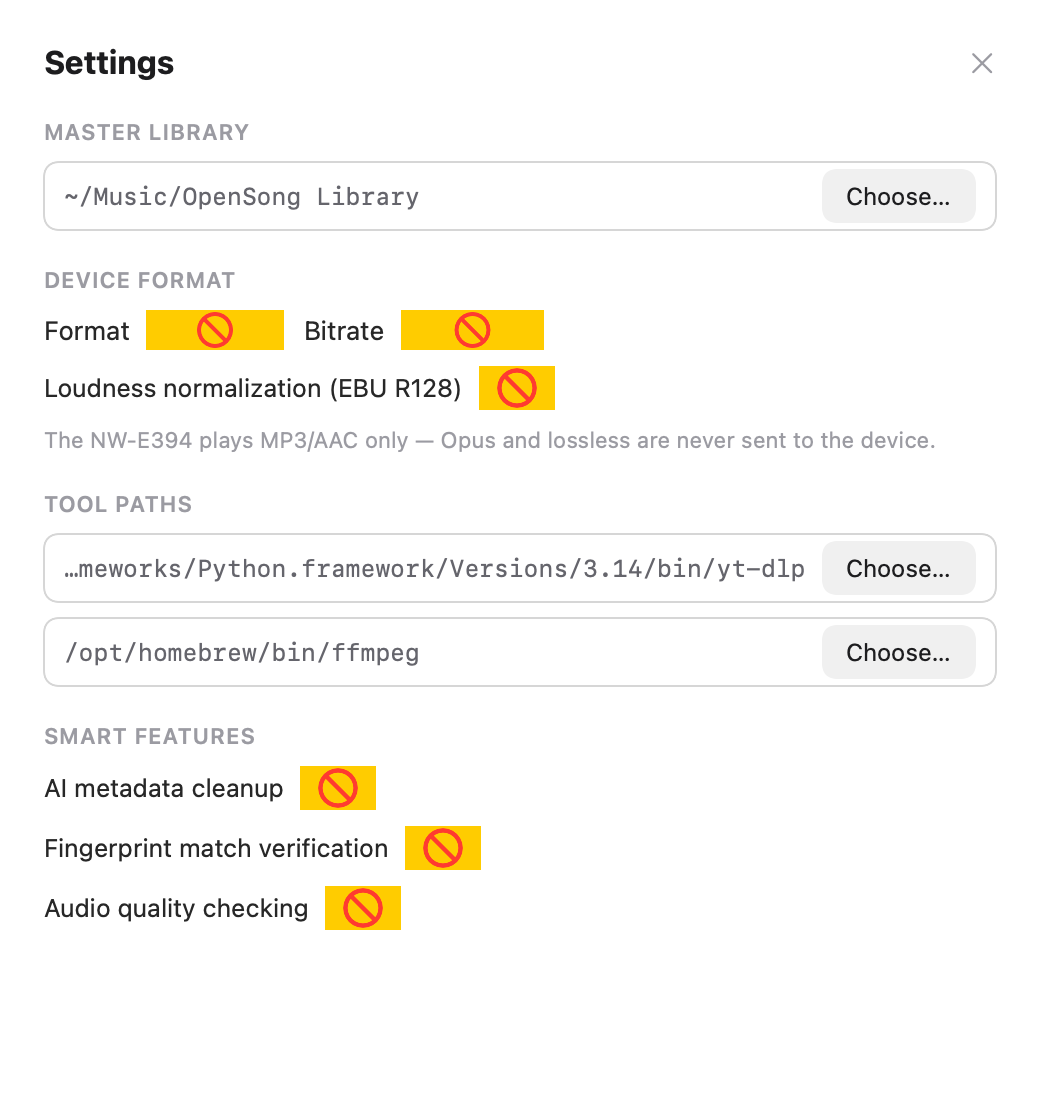
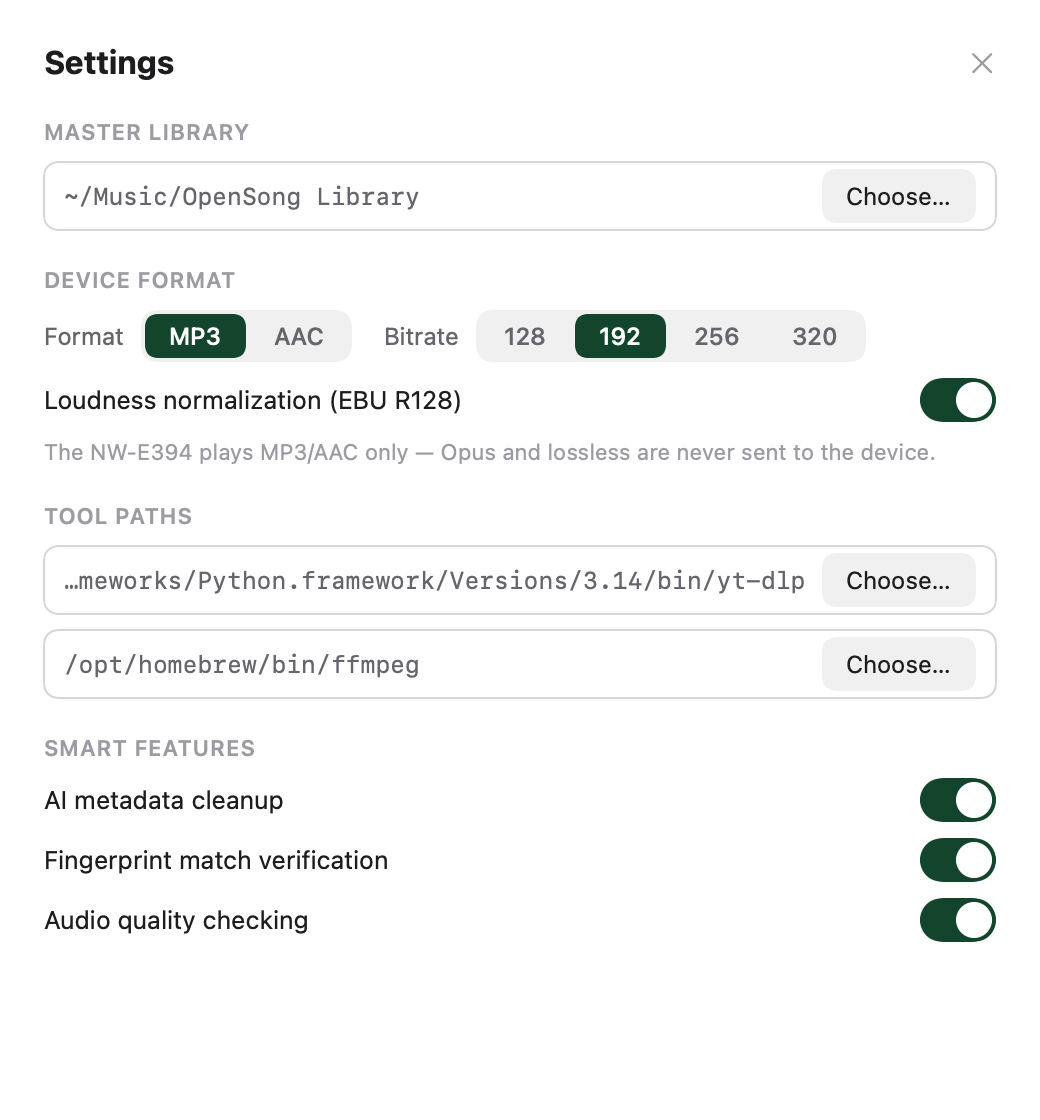
feat: custom segmented controls + switches (clean render, matches design)

diff --git a/Sources/OpenSong/Sheets.swift b/Sources/OpenSong/Sheets.swift
@@ -90,16 +90,19 @@ struct SettingsView: View {
                 pathRow(store.settings.libraryPath)
             }
             group("Device Format") {
-                HStack(spacing: 10) {
-                    Picker("Format", selection: $store.settings.deviceFormat) {
-                        Text("MP3").tag("mp3"); Text("AAC").tag("aac")
-                    }.frame(width: 120)
-                    Picker("Bitrate", selection: $store.settings.bitrateKbps) {
-                        ForEach([128, 192, 256, 320], id: \.self) { Text("\($0)k").tag($0) }
-                    }.frame(width: 120)
+                HStack(spacing: 16) {
+                    HStack(spacing: 8) {
+                        Text("Format").font(.system(size: 12)).foregroundStyle(theme.text2)
+                        SegmentedControl(options: [("MP3", "mp3"), ("AAC", "aac")],
+                                         selection: $store.settings.deviceFormat)
+                    }
+                    HStack(spacing: 8) {
+                        Text("Bitrate").font(.system(size: 12)).foregroundStyle(theme.text2)
+                        SegmentedControl(options: [("128", 128), ("192", 192), ("256", 256), ("320", 320)],
+                                         selection: $store.settings.bitrateKbps)
+                    }
                 }
-                Toggle("Loudness normalization (EBU R128)", isOn: $store.settings.loudnessNormalize)
-                    .toggleStyle(.switch).tint(theme.accent).font(.system(size: 12.5))
+                ToggleRow(label: "Loudness normalization (EBU R128)", isOn: $store.settings.loudnessNormalize)
                 Text("The NW-E394 plays MP3/AAC only — Opus and lossless are never sent to the device.")
                     .font(.system(size: 11)).foregroundStyle(theme.text3)
             }
@@ -108,9 +111,9 @@ struct SettingsView: View {
                 pathRow(store.settings.ffmpegPath)
             }
             group("Smart Features") {
-                Toggle("AI metadata cleanup", isOn: $store.settings.aiCleanup).toggleStyle(.switch).tint(theme.accent).font(.system(size: 12.5))
-                Toggle("Fingerprint match verification", isOn: $store.settings.fingerprint).toggleStyle(.switch).tint(theme.accent).font(.system(size: 12.5))
-                Toggle("Audio quality checking", isOn: $store.settings.qualityCheck).toggleStyle(.switch).tint(theme.accent).font(.system(size: 12.5))
+                ToggleRow(label: "AI metadata cleanup", isOn: $store.settings.aiCleanup)
+                ToggleRow(label: "Fingerprint match verification", isOn: $store.settings.fingerprint)
+                ToggleRow(label: "Audio quality checking", isOn: $store.settings.qualityCheck)
             }
             Spacer()
         }

diff --git a/Sources/OpenSong/UIHelpers.swift b/Sources/OpenSong/UIHelpers.swift
@@ -42,6 +42,36 @@ struct SegmentedControl<T: Hashable>: View {
     }
 }
 
+/// Custom switch (Toggle(.switch) renders as a placeholder offscreen; also matches
+/// the design's 38×22 track / 18px knob).
+struct SwitchToggle: View {
+    @Binding var isOn: Bool
+    @Environment(\.theme) private var theme
+    var body: some View {
+        Button { isOn.toggle() } label: {
+            ZStack(alignment: isOn ? .trailing : .leading) {
+                Capsule().fill(isOn ? theme.accent : theme.track).frame(width: 38, height: 22)
+                Circle().fill(.white).frame(width: 18, height: 18).padding(2)
+            }
+        }
+        .buttonStyle(.plain)
+    }
+}
+
+/// A labeled setting row with a trailing switch.
+struct ToggleRow: View {
+    let label: String
+    @Binding var isOn: Bool
+    @Environment(\.theme) private var theme
+    var body: some View {
+        HStack {
+            Text(label).font(.system(size: 12.5)).foregroundStyle(theme.text)
+            Spacer()
+            SwitchToggle(isOn: $isOn)
+        }
+    }
+}
+
 /// Custom progress bar (ProgressView renders as a placeholder offscreen).
 struct ProgressBar: View {
     var value: Double

diff --git a/Sources/OpenSong/PlaylistDetailView.swift b/Sources/OpenSong/PlaylistDetailView.swift
@@ -46,11 +46,11 @@ struct PlaylistDetailView: View {
                 Text("\(songs.count) songs · \(Int(totalSec) / 60) min").font(.system(size: 12)).foregroundStyle(theme.text3)
             }
             Spacer()
-            VStack(alignment: .trailing, spacing: 4) {
-                Toggle("Generate on device (.m3u)", isOn: Binding(
+            HStack(spacing: 8) {
+                Text("Generate on device (.m3u)").font(.system(size: 12)).foregroundStyle(theme.text2)
+                SwitchToggle(isOn: Binding(
                     get: { pl.syncToDevice },
                     set: { _ in store.togglePlaylistDeviceSync(pl.id) }))
-                    .toggleStyle(.switch).tint(theme.accent).font(.system(size: 12))
             }
         }
         .padding(20)
